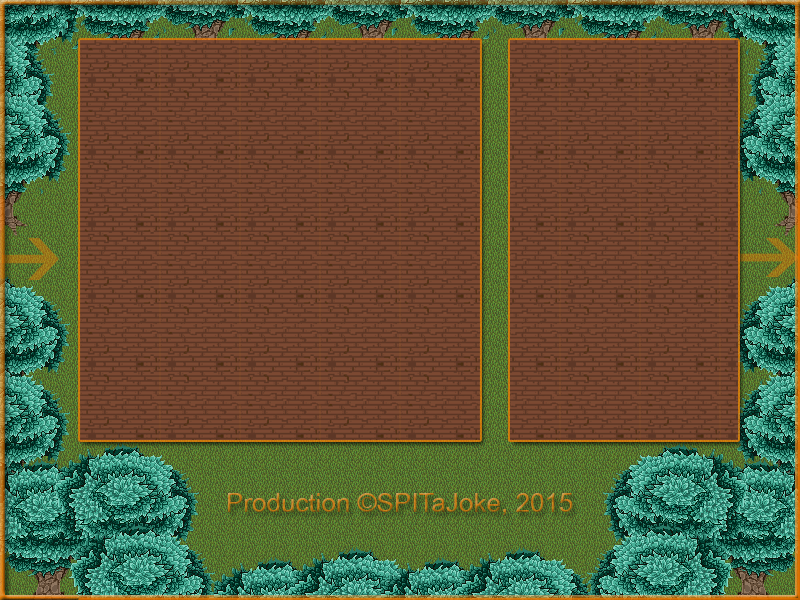
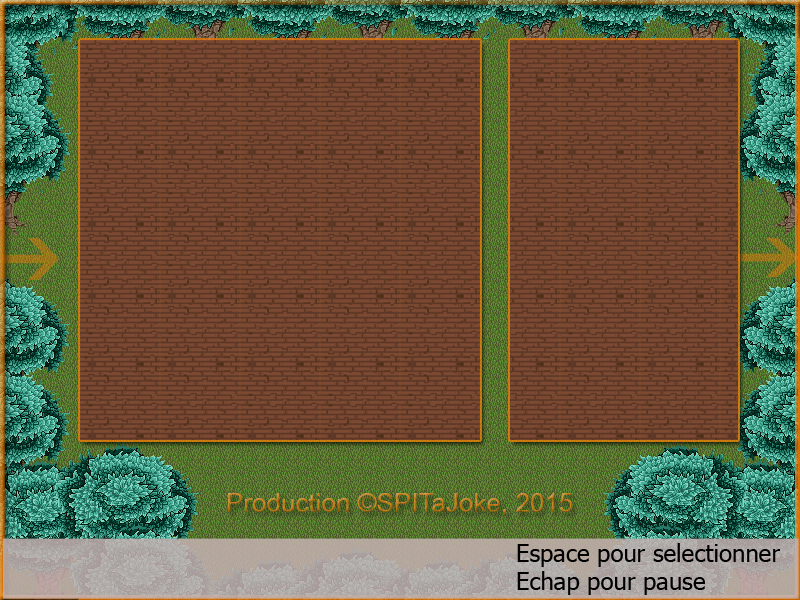
Update to conform to ESDL 0.4.9

Changed region(s): [[0.0, 0.87, 1.0, 1.0]]

diff --git a/include/engine.h b/include/engine.h
@@ -8,7 +8,6 @@
  * Génération de la grille; Indexation des mots
  *
  */
-// Mettre DEBUG Ã  1 pour activer les messages d'erreur en console
 #define DEBUG 0
 #define M 20
 #define MAX_LEN 128
@@ -21,7 +20,6 @@ extern int MAX_WORDS;
 extern int nb_empty_cell;
 extern int limite_mots;
 
-// DECLARATIONS FONCTIONS
 /**
  * \fn void initMatrice(void)
  * \brief Initialise la matrice manuellement
@@ -37,12 +35,12 @@ void initMatrice(void);
  */
 void displayMatrice(void);
 /**
- * \fn void fillMatrice(void)
- * \brief Rempli la matrice avec des mots par deux méthodes
+ * \fn void *fillMatrice(void *arg)
+ * \brief Rempli la matrice avec des mots par deux méthodes (pthread)
  *
  * \return AUCUNE
  */
-void fillMatrice(void);
+void *fillMatrice(void *arg);
 /**
  * \fn void makePattern(char * pattern, int * x, int * y, int * direction)
  * \brief Génére un patron pour une situation donnée
@@ -61,6 +59,7 @@ void makePattern(char * pattern, int * x, int * y, int * direction);
  * \return AUCUNE
  */
 void initialiseFrom(FILE * fic);
+
 void writeWord(char * mot, int direction, int x, int y);
 /**
  * \fn void randomFilling(void)

diff --git a/engine.c b/engine.c
@@ -11,7 +11,7 @@
 char matrice[M][M];
 char words[100][20];
 int id_matched[40] = {0};
-int MAX_WORDS=0;
+int MAX_WORDS = 0;
 t_dic * allData = NULL;
 long nb_words = 0;
 int nb_empty_cell = M*M;
@@ -81,7 +81,7 @@ void displayMatrice(void){
 // Remplis la matrice avec des mots choisis aléatoirement
 // correspondant à un patron rédigé à partir d'une position
 // et direction aléatoires puis remplis la matrice
-void fillMatrice(void){
+void *fillMatrice(void *arg){
 	int direction=-1, x, y, i=0;
 	char patrontest[20];
 	char * wordPTR = NULL;
@@ -104,6 +104,9 @@ void fillMatrice(void){
 		}
 		if(DEBUG)fprintf(stderr,"\n-------------");
 	}while ((nb_empty_cell > NB_EMPTY_CELL_MIN) && MAX_WORDS < limite_mots);
+	
+	pthread_exit(NULL);
+	
 }
 
 // Remplis les espaces vides de la matrice par des lettres aléatoires

diff --git a/mliste.c b/mliste.c
@@ -1,11 +1,11 @@
 /*
-	http://sdz.tdct.org/sdz/les-listes-chainees-2.html
-	R√©utilis√© par SIMON J√©r√©my, TAHRI Ahmed
-	Dans le cadre de l'indexation dynamique de mots
+	mliste.c 
+	TAHRI Ahmed, SIMON Jérémy
 */
 #include <stdlib.h>
 #include <stdio.h>
 #include <string.h>
+
 #include "include/mliste.h"
 
 t_alphabet * dataAlphabet = NULL;

diff --git a/README.md b/README.md
@@ -1,3 +1,3 @@
 # CrossWords-SDL
-Little crosswords game with ESDL 0.4.5
+Little crosswords game with ESDL 0.4.9
 Feel free to improve this little game.
